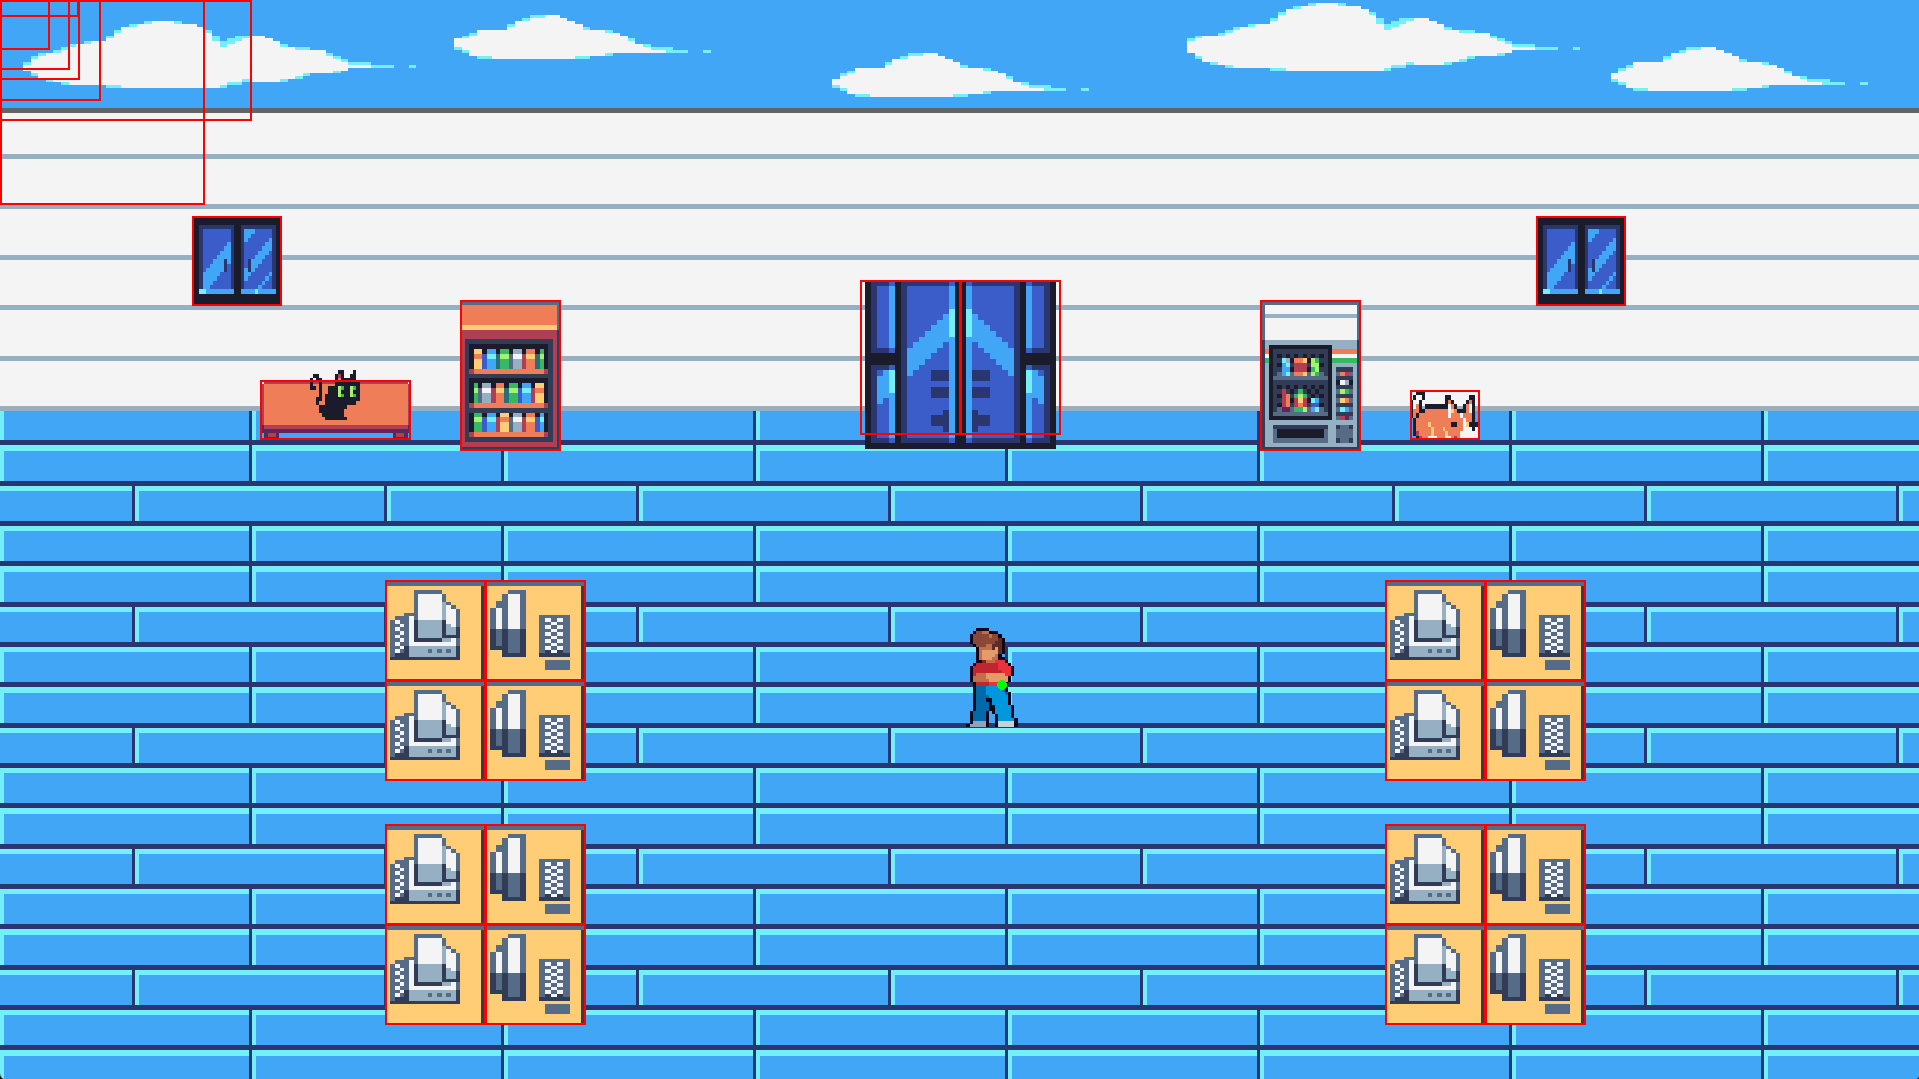
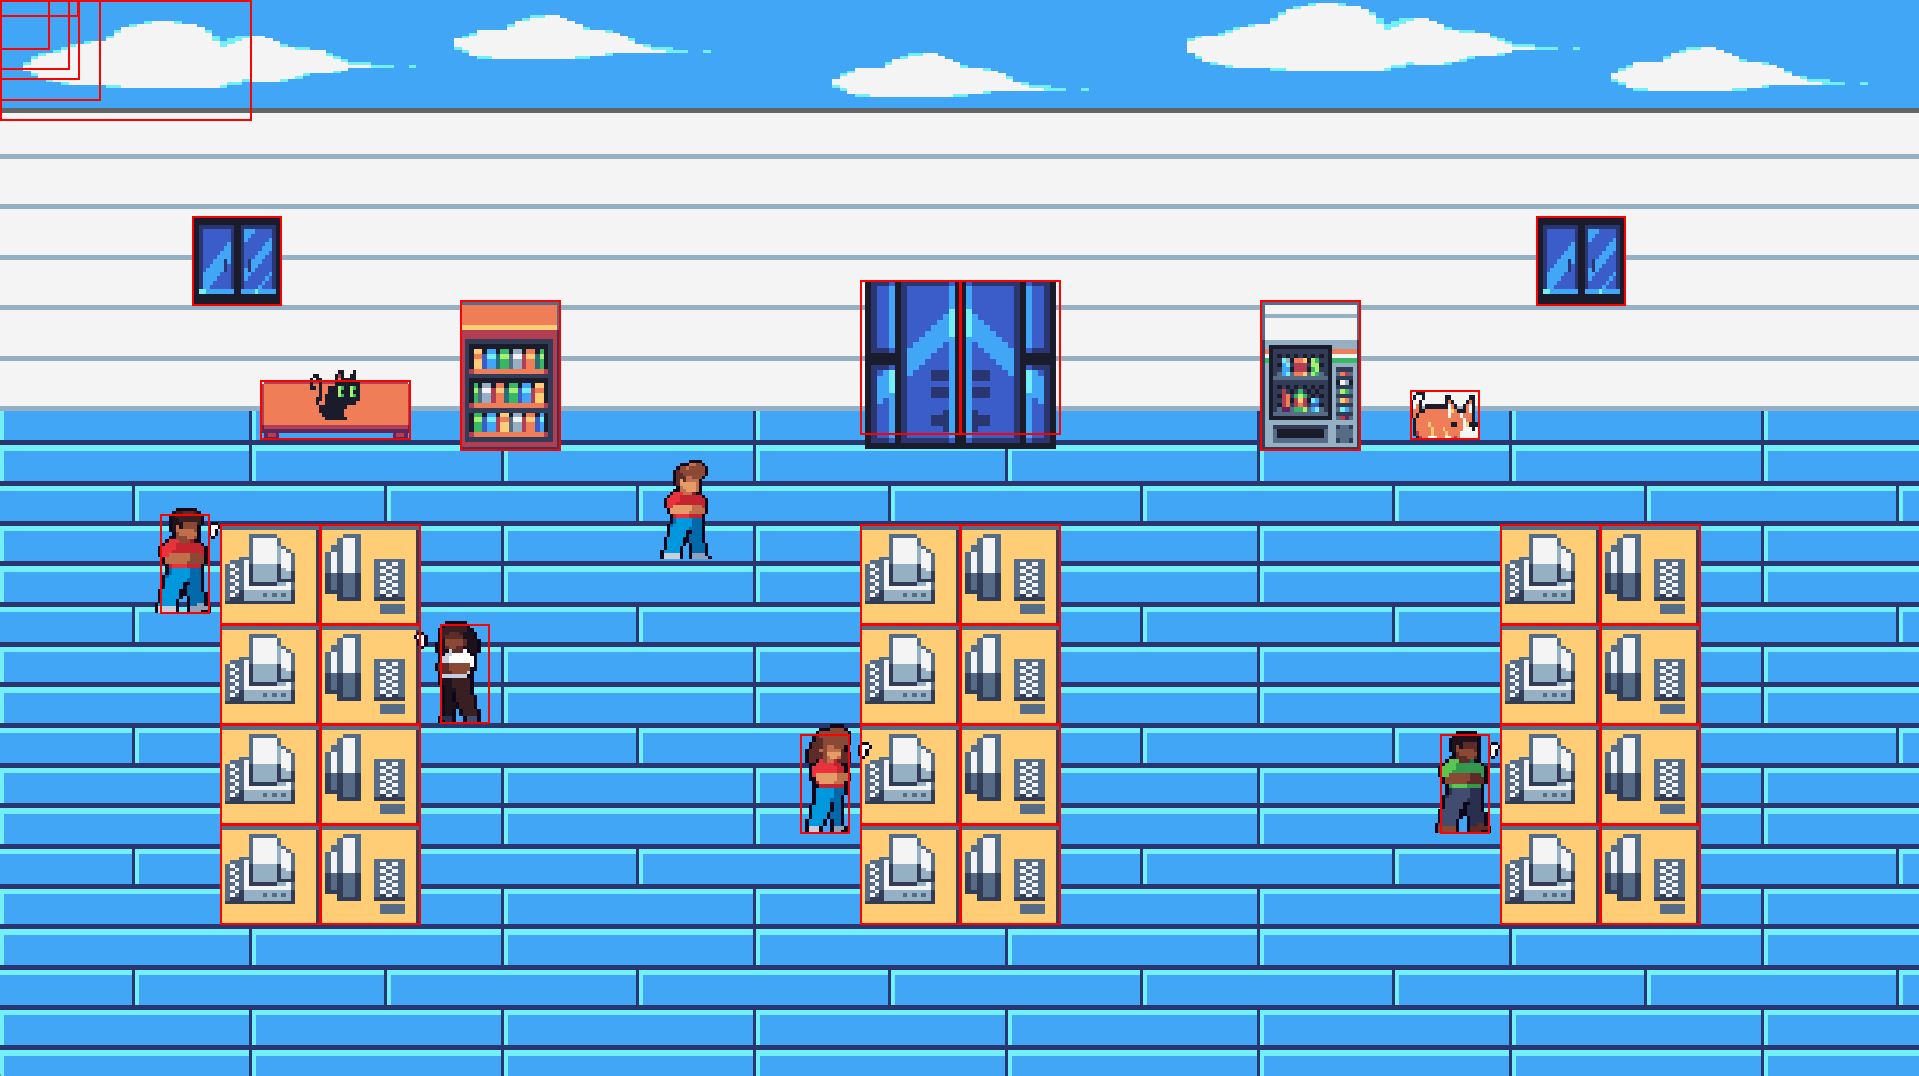
Add files via upload

diff --git a/utils.py b/utils.py
@@ -29,7 +29,9 @@ def carregar_imagens(caminho_assets):
     computador2_original = pygame.image.load(os.path.join(caminho_assets, "computador2.png")).convert_alpha()
     gato_original = pygame.image.load(os.path.join(caminho_assets, "gato.png")).convert_alpha()
     cachorro_original = pygame.image.load(os.path.join(caminho_assets, "cachorro.png")).convert_alpha()
-    divisoria = pygame.image.load(os.path.join(caminho_assets, 'divisoria.png')).convert_alpha()
+    relogio_original = pygame.image.load(os.path.join(caminho_assets, 'relogio.png')).convert_alpha()
+    vida_original = pygame.image.load(os.path.join(caminho_assets, 'vida5-5.png')).convert_alpha()
+    moeda_original = pygame.image.load(os.path.join(caminho_assets, 'moeda.png')).convert_alpha()
     
     # Calcular escala com base na largura da tela
     escala = calcular_escala(LARGURA_TELA)
@@ -50,8 +52,9 @@ def carregar_imagens(caminho_assets):
     gato = pygame.transform.scale(gato_original, (escala * 0.5, escala * 0.5))
     gato = pygame.transform.flip(gato, True, False)
     cachorro = pygame.transform.scale(cachorro_original, (escala * 0.7, escala * 0.5))
-
-
+    relogio_figura = pygame.transform.scale(relogio_original, (escala * 0.5, escala * 0.3))
+    vida = pygame.transform.scale(vida_original, (escala * 4.5, escala * 4.5))
+    moeda = pygame.transform.scale(moeda_original, (escala * 2.3, escala * 2.3))
     # Definir os rects
     rects = {
         "chao": chao.get_rect(),
@@ -67,8 +70,7 @@ def carregar_imagens(caminho_assets):
         "computador1": computador1.get_rect(),
         "computador2": computador2.get_rect(),
         "gato": gato.get_rect(),
-        "cachorro": cachorro.get_rect(),
-        "divisoria": divisoria.get_rect(),
+        "cachorro": cachorro.get_rect()
     }
     
     # Carregar animações de andar e correr
@@ -81,12 +83,32 @@ def carregar_imagens(caminho_assets):
         pygame.transform.scale(pygame.image.load(os.path.join(caminho_assets, f"personagem_correndo{i}.png")).convert_alpha(), (TAMANHO_PERSONAGEM, TAMANHO_PERSONAGEM))
         for i in range(1, 9)
     ]
+    
+    animacao_figurante1 = [
+        pygame.transform.scale(pygame.image.load(os.path.join(caminho_assets, f"figurante1esperando{i}.png")).convert_alpha(), (TAMANHO_PERSONAGEM, TAMANHO_PERSONAGEM))
+        for i in range(1, 7) 
+    ]
+    
+    animacao_figurante2 = [
+        pygame.transform.scale(pygame.image.load(os.path.join(caminho_assets, f"figurante2esperando{i}.png")).convert_alpha(), (TAMANHO_PERSONAGEM, TAMANHO_PERSONAGEM))
+        for i in range(1, 7) 
+    ]
+    
+    animacao_figurante3 = [
+        pygame.transform.scale(pygame.image.load(os.path.join(caminho_assets, f"figurante3esperando{i}.png")).convert_alpha(), (TAMANHO_PERSONAGEM, TAMANHO_PERSONAGEM))
+        for i in range(1, 7) 
+    ]
+        
+    animacao_figurante4 = [
+        pygame.transform.scale(pygame.image.load(os.path.join(caminho_assets, f"figurante4esperando{i}.png")).convert_alpha(), (TAMANHO_PERSONAGEM, TAMANHO_PERSONAGEM))
+        for i in range(1, 7) 
+    ]
 
     # Carregar imagem do céu
     ceu_original = pygame.image.load(os.path.join(caminho_assets, "ceu.png")).convert()
     ceu = pygame.transform.scale(ceu_original, (LARGURA_TELA, int(ALTURA_TELA * 0.1)))
     
-    return (chao, parede, personagem_parado, animacao_andar, animacao_correr, ceu, janela, porta, maquina, maquina2, mesa, mesa_grande, computador1, computador2, gato, cachorro, divisoria, rects)
+    return (chao, parede, personagem_parado, animacao_andar, animacao_correr, ceu, janela, porta, maquina, maquina2, mesa, mesa_grande, computador1, computador2, gato, cachorro, relogio_figura, rects, animacao_figurante1, animacao_figurante2, animacao_figurante3, animacao_figurante4, vida, moeda)
 
 def desenhar_repetido(tela, imagem, largura, altura, x_inicial=0, y_inicial=0):
     for x in range(x_inicial, x_inicial + largura, imagem.get_width()):
@@ -124,7 +146,7 @@ def mover_personagem(teclas, x, y, velocidade, direcao, tamanho_personagem, area
         # Criar retângulos dos objetos para verificar colisão
         objetos = [
             'janela', 'janela2', 'porta', 'porta2', 
-            'maquina', 'maquina2', 'mesa_grande', 'gato', 'cachorro'
+            'maquina', 'maquina2', 'mesa_grande', 'gato', 'cachorro', 'figurante1', 'figurante2', 'figurante3', 'figurante4'
         ]
         
         # Verificar colisão com objetos fixos
@@ -251,6 +273,15 @@ def definir_posicoes_objetos(altura_chao, rects):
     espaco_horizontal = 200
     espaco_vertical = 200
 
+    x_relogio = x_porta1 - 25
+    y_relogio = y_porta1 - 40
+    
+    x_vida = - 10
+    y_vida = - 100
+    
+    x_moeda = - 65
+    y_moeda = - 10
+    
     mesas = [
         # Bloco 1 (Canto Esquerdo)
         (LARGURA_TELA // 6 - espaco_horizontal - 75 - ajuste_horizontal, ALTURA_TELA - altura_chao + espaco_vertical),
@@ -312,14 +343,14 @@ def definir_posicoes_objetos(altura_chao, rects):
         rects[f'mesa{i}'] = rect_mesa
 
     return (x_janela1, y_janela1, x_janela2, y_janela2, x_porta1, y_porta1, x_porta2, y_porta2,
-            x_maquina, y_maquina, x_maquina2, y_maquina2, x_mesa_grande, y_mesa_grande, mesas, computadores, x_gato, y_gato, x_cachorro, y_cachorro), rects
+            x_maquina, y_maquina, x_maquina2, y_maquina2, x_mesa_grande, y_mesa_grande, mesas, computadores, x_gato, y_gato, x_cachorro, y_cachorro, x_relogio, y_relogio, x_vida, y_vida, x_moeda, y_moeda), rects
 
 
-def desenhar_cenario(tela, chao, parede, ceu, janela, porta, porta2, maquina, maquina2, mesa, mesa_grande, computador1, computador2, gato, cachorro, posicoes, altura_chao):
+def desenhar_cenario(tela, chao, parede, ceu, janela, porta, porta2, maquina, maquina2, mesa, mesa_grande, computador1, computador2, gato, cachorro, posicoes, altura_chao, relogio_figura, vida, moeda):
     
     
     (x_janela1, y_janela1, x_janela2, y_janela2, x_porta1, y_porta1, x_porta2, y_porta2,
-     x_maquina, y_maquina, x_maquina2, y_maquina2, x_mesa_grande, y_mesa_grande, mesas, computadores, x_gato, y_gato, x_cachorro, y_cachorro) = posicoes
+     x_maquina, y_maquina, x_maquina2, y_maquina2, x_mesa_grande, y_mesa_grande, mesas, computadores, x_gato, y_gato, x_cachorro, y_cachorro, x_relogio, y_relogio, x_vida, y_vida, x_moeda, y_moeda) = posicoes
 
     tela.fill((0, 0, 0))
 
@@ -327,6 +358,8 @@ def desenhar_cenario(tela, chao, parede, ceu, janela, porta, porta2, maquina, ma
     desenhar_repetido(tela, parede, LARGURA_TELA, int(ALTURA_TELA * 0.2), 0, ALTURA_TELA - altura_chao - int(ALTURA_TELA * 0.2))
     tela.blit(ceu, (0, 0))
 
+    tela.blit(relogio_figura, (x_relogio, y_relogio))
+    
     tela.blit(janela, (x_janela1, y_janela1))
     tela.blit(janela, (x_janela2, y_janela2))
 
@@ -346,7 +379,9 @@ def desenhar_cenario(tela, chao, parede, ceu, janela, porta, porta2, maquina, ma
     tela.blit(cachorro, (x_cachorro, y_cachorro))
     
     desenhar_borda_horizontal(tela, (100, 100, 100), LARGURA_TELA, 5, ALTURA_TELA - altura_chao - int(ALTURA_TELA * 0.2))
-
+    
+    tela.blit(vida, (x_vida, y_vida))
+    tela.blit(moeda, (x_moeda, y_moeda))
 def atualizar_animacao(teclas_pressionadas, frame_atual, animacao_andar, animacao_correr, personagem_parado):
     if any([teclas_pressionadas[pygame.K_UP], teclas_pressionadas[pygame.K_DOWN], teclas_pressionadas[pygame.K_LEFT], teclas_pressionadas[pygame.K_RIGHT], teclas_pressionadas[pygame.K_w], teclas_pressionadas[pygame.K_s], teclas_pressionadas[pygame.K_a], teclas_pressionadas[pygame.K_d]]):
         if teclas_pressionadas[pygame.K_LSHIFT] or teclas_pressionadas[pygame.K_RSHIFT]:

diff --git a/fase1.py b/fase1.py
@@ -5,6 +5,7 @@ from utils import *
 
 # Caminho dos assets
 caminho_assets = "D:/jogo/assets/images"
+
 def inicializar_jogo():
     pygame.init()
     tela = pygame.display.set_mode((LARGURA_TELA, ALTURA_TELA))
@@ -12,16 +13,59 @@ def inicializar_jogo():
     relogio = pygame.time.Clock()
     return tela, relogio
 
+def inicializar_figurantes(posicoes, animações, tamanhos):
+    figurantes = {}
+    rects_figurantes = {}
+    for i, posicao in enumerate(posicoes):
+        figura_rect = pygame.Rect(posicao[0] + 90, posicao[1] + 70, 50, 100)
+        figurantes[f"figurante{i+1}"] = {
+            "rect": figura_rect,
+            "animacao": animações[i],
+            "frame_atual": 0,
+            "ultimo_tempo_animacao": pygame.time.get_ticks()
+        }
+        rects_figurantes[f"figurante{i+1}"] = figura_rect
+    return figurantes, rects_figurantes
+
+def atualizar_figurantes(figurantes, tempo_espera_animacao):
+    agora = pygame.time.get_ticks()
+    for figurante in figurantes.values():
+        if agora - figurante["ultimo_tempo_animacao"] > tempo_espera_animacao:
+            figurante["frame_atual"] = (figurante["frame_atual"] + 1) % len(figurante["animacao"])
+            figurante["ultimo_tempo_animacao"] = agora
+    return figurantes
+
+def desenhar_figurantes(tela, figurantes, posicoes_figurantes):
+    for i, (nome, figurante) in enumerate(figurantes.items()):
+        figura_atual = figurante["animacao"][figurante["frame_atual"]]
+        posicao = posicoes_figurantes[i]
+        tela.blit(figura_atual, posicao)
 
 def fase1():
     tela, relogio = inicializar_jogo()
-    (chao, parede, personagem_parado, animacao_andar, animacao_correr, ceu, janela, porta, maquina, maquina2, mesa, mesa_grande, computador1, computador2, gato, cachorro, divisoria, rects) = carregar_assets()
+    (chao, parede, personagem_parado, animacao_andar, animacao_correr, ceu, janela, porta, maquina, maquina2, mesa, mesa_grande, computador1, computador2, gato, cachorro, relogio_figura, rects, animacao_figurante1, animacao_figurante2, animacao_figurante3, animacao_figurante4, vida, moeda) = carregar_assets()
     x_personagem, y_personagem = inicializar_posicoes()
-    
     altura_chao, area_chao_horizontalmente_expandida = definir_areas_chao()
     posicoes, rects = definir_posicoes_objetos(altura_chao, rects)
+    
+    # Configurações dos figurantes
+    posicoes_figurantes = [
+        (rects['mesa0'].x - 150, rects['mesa0'].y - 80),
+        (rects['mesa15'].x - 250, rects['mesa15'].y - 60),
+        (rects['mesa9'].x - 510, rects['mesa9'].y - 70),
+        (rects['mesa20'].x - 150, rects['mesa20'].y - 60)
+    ]
+    
+    tamanhos_figurantes = [(90, 70), (90, 70), (90, 70), (90, 70)]
+    animacoes_figurantes = [animacao_figurante1, animacao_figurante2, animacao_figurante3, animacao_figurante4]
+    
+    figurantes, rects_figurantes = inicializar_figurantes(posicoes_figurantes, animacoes_figurantes, tamanhos_figurantes)
+    
+    # Adiciona os rects dos figurantes ao dicionário principal
+    rects.update(rects_figurantes)
     frame_atual = 0
     direcao = "direita"
+    tempo_espera_animacao = 200  # Intervalo entre frames (em milissegundos)
     
     fase1_rodando = True
     while fase1_rodando:
@@ -38,15 +82,24 @@ def fase1():
         
         personagem, frame_atual = atualizar_animacao(teclas_pressionadas, frame_atual, animacao_andar, animacao_correr, personagem_parado)
         
+        # Atualizar a animação dos figurantes
+        figurantes = atualizar_figurantes(figurantes, tempo_espera_animacao)
+        
         if direcao == "esquerda":
             personagem = pygame.transform.flip(personagem, True, False)
         
-        desenhar_cenario(tela, chao, parede, ceu, janela, porta, pygame.transform.flip(porta, True, False), maquina, maquina2, mesa, mesa_grande, computador1, computador2, gato, cachorro, posicoes, altura_chao)
+        desenhar_cenario(tela, chao, parede, ceu, janela, porta, pygame.transform.flip(porta, True, False), maquina, maquina2, mesa, mesa_grande, computador1, computador2, gato, cachorro, posicoes, altura_chao, relogio_figura, vida, moeda)
         tela.blit(personagem, (x_personagem, y_personagem))
+        
+        # Desenhar figurantes
+        desenhar_figurantes(tela, figurantes, posicoes_figurantes)
+        
+        # Desenhar retângulos de colisão
+        #for key, rect in rects.items():
+            #pygame.draw.rect(tela, (255, 0, 0), rect, 2)  # Desenha retângulos vermelhos com borda de espessura 2
         
         pygame.display.flip()
         relogio.tick(30)
         
-    
 if __name__ == "__main__":
     fase1()
